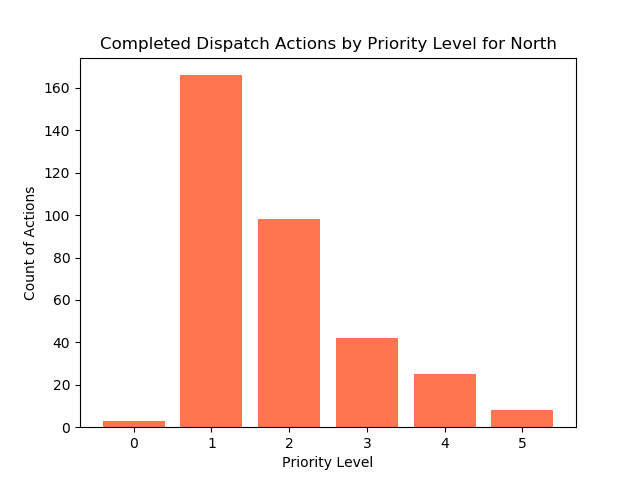
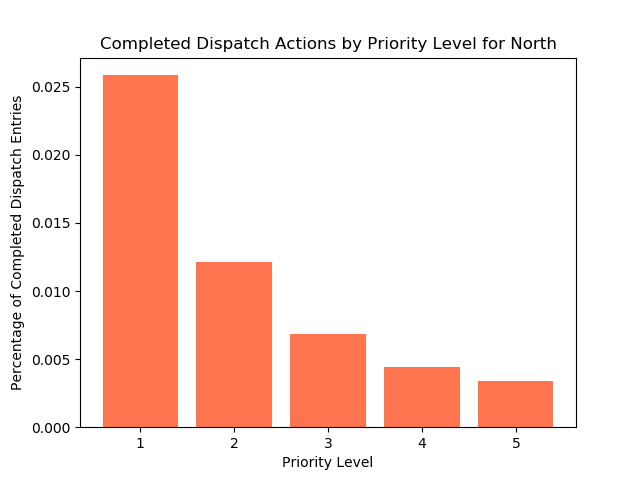
changing to percentage

diff --git a/dispatch.py b/dispatch.py
@@ -72,14 +72,23 @@ def dispatch_work(df):
 	for bu in df['BusinessUnit'].unique():
 		plt.close()
 
-		count_df = df[df['BusinessUnit'] == bu].groupby('PriorityLevel', as_index=False).count()
+		count_df = df[(df['BusinessUnit'] == bu) &
+					  (df['Action Type - No count'].notnull())]\
+					  .groupby('PriorityLevel', as_index=False).count()
+		count_df.rename(index=str, columns={'LocationID': 'Completed'}, inplace=True)
 
-		plt.bar(count_df['PriorityLevel'].values, count_df['LocationID'].values, .8,
+		total_df = df[df['BusinessUnit'] == bu].groupby('PriorityLevel', as_index=False).count()
+		total_df.rename(index=str, columns={'LocationID': 'Total'}, inplace=True)
+
+		plot_df = total_df.merge(count_df, on=['PriorityLevel'])
+		plot_df['perc'] = plot_df.loc[:,'Completed'] / plot_df.loc[:,'Total']
+
+		plt.bar(plot_df['PriorityLevel'].values, plot_df['perc'].values, .8,
 				color='#ff754f')
 
 		plt.title('Completed Dispatch Actions by Priority Level for {}'.format(bu))
 		plt.xlabel('Priority Level')
-		plt.ylabel('Count of Actions')
+		plt.ylabel('Percentage of Completed Dispatch Entries')
 		plt.savefig('figures/completed_dispatch_{}.png'.format(bu.lower()))
 
 def missed_dispatch(df):
@@ -100,7 +109,9 @@ def missed_dispatch(df):
 if __name__ == '__main__':
 	df = dispatch_pull()
 
-	# dispatch_work(df.loc[df['Action Type - No count'].notnull(),
-	# 					 ['PriorityLevel', 'LocationID', 'BusinessUnit']])
-	missed_dispatch(df.loc[df['Action Type - No count'].isnull(),
-						   ['PriorityLevel', 'LocationID', 'BusinessUnit']])
+	dispatch_work(df.loc[df['PriorityLevel'] != 0,
+						 ['PriorityLevel', 'LocationID', 'BusinessUnit',
+						 'Action Type - No count']])
+	# missed_dispatch(df.loc[(df['Action Type - No count'].isnull()) &
+	# 					   (df['PriorityLevel'] != 0),
+	# 					   ['PriorityLevel', 'LocationID', 'BusinessUnit']])
